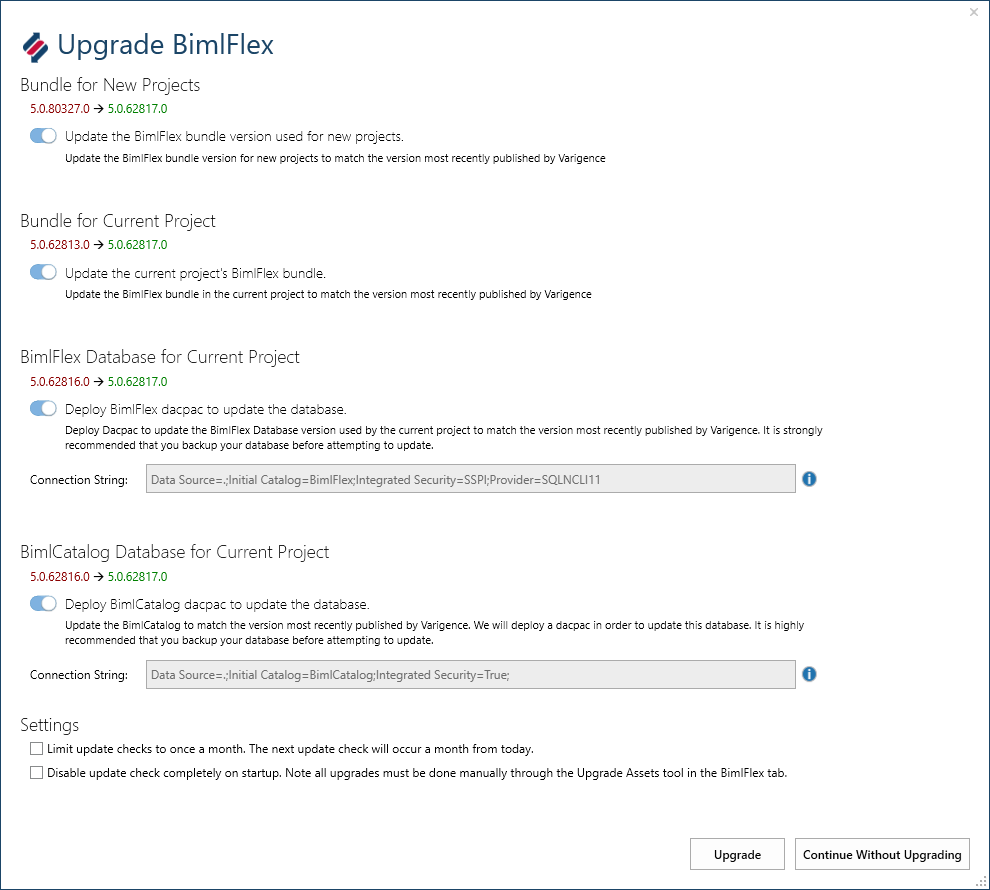
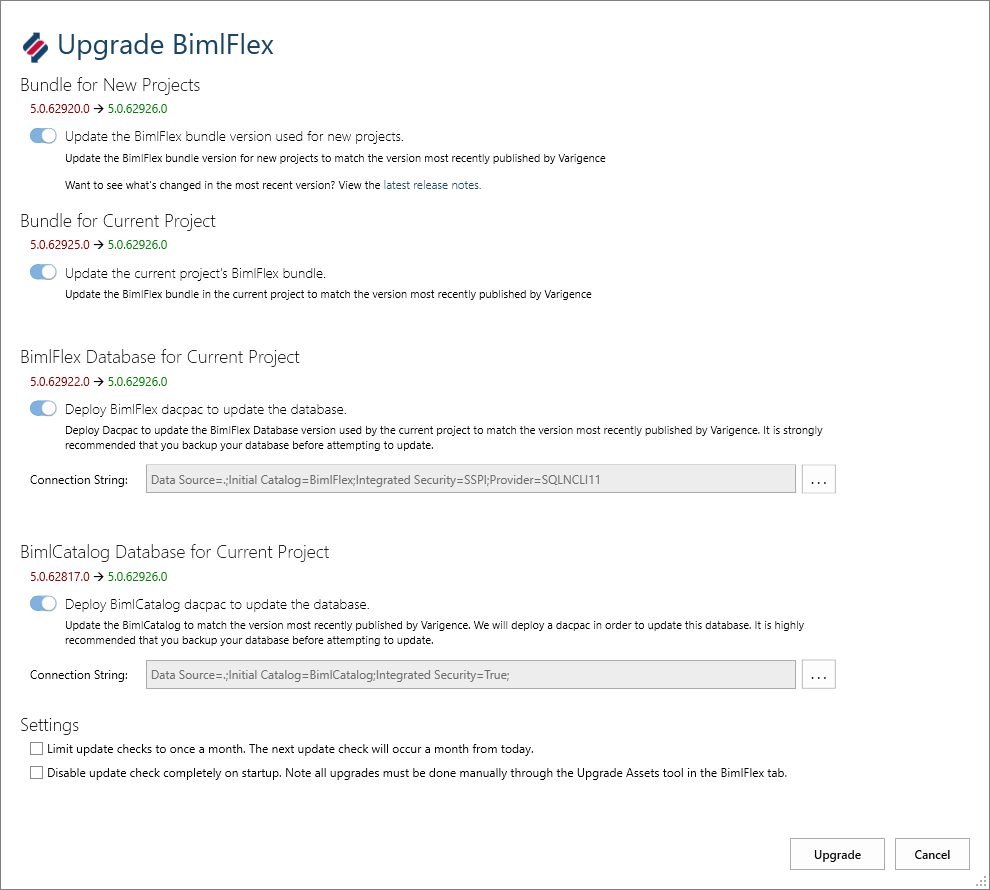
update BimlFlex upgrade process docs

diff --git a/bimlflex/user-guide/upgrade-and-testing-process.md b/bimlflex/user-guide/upgrade-and-testing-process.md
@@ -1,95 +1,80 @@
+---
+uid: bimlflex-upgrade-and-testing
+title: Upgrade and Testing Process
+---
 # Upgrade and Testing Process
 
-BimlFlex is built on BimlStudio and contains the following components that are of interest when upgrading a component to a later version:
+BimlFlex is built on BimlStudio and contains the following components that are of interest when upgrading to a later version:
 
 * BimlStudio Application
 * BimlFlex component of BimlStudio
 * BimlFlex Excel Add-in
-* BimlFlex bundle file
+* BimlFlex Bundle file
 * BimlFlex Metadata database
 * BimlCatalog Orchestration database
 * BimlFlex Custom SSIS Components
 
-The BimlStudio application is distributed as a single, separate installer; the BimlFlex components are combined in a single separate installer. Some components are provided optimized for server deployment. Upgrades to databases and Bundles are distributed through the [Support Utility Application](support-utility-application.md).
+* The BimlStudio application is distributed as a single, separate installer
+* The BimlFlex Excel Add-in is distributed as a single, separate installer
+* The BimlFlex databases are embedded in the Bundle used by BimlStudio and can be deployed and updated from within BimlStudio
+* The BimlFlex Custom SSIS Components are distributes as an archive file that contains the component dll and a .bat file installer
 
 ## Upgrading BimlStudio and BimlFlex from the Varigence website
 
-The current version of [BimlStudio is availble for download here](https://varigence.com/downloads/bimlstudiosetup.exe).
+The current version of [BimlStudio is available for download here](https://varigence.com/downloads/bimlstudiosetup.exe).
 
-Other components are available on request from the BimlFlex Enterprise support team at [bimlflex-support@varigence.com](mailto:bimlflex-support@varigence.com).
+Other components are available on request from the BimlFlex Enterprise support team at [bimlflex-support@varigence.com](mailto:bimlflex-support@varigence.com). The download locations are also detailed in the licensing email.
 
 ## Preparation for upgrading an existing project
 
-A current project with existing Extension Point script files and existing metadata needs planning and consideration before upgrading.
+Current projects with existing Extension Point script files and existing metadata needs planning and consideration before upgrading.
 
-A new version of BimlFlex and its components can include fixes for any issues identified as well as new functionality. This is detailed in the @bimlflex-release-notes that accompany the new version.
+A new version of BimlFlex and its components can include both fixes and new functionality. This is detailed in the @bimlflex-release-notes that accompany the new version.
 
-### 1. Do a database backup
+### 1. Do database backups
 
-Do a backup of the existing metadata database so that it is available in case a rollback is wanted.
+Do backups of the existing metadata and catalog databases so that they can be rolled back if needed
 
-### 2. Create a metadata dump
+### 2. Build expanded code files
 
-Create a metadata dump using the BimlFlex utility in case there is a need to send it to the BimlFlex support team. [More information on how to use the BimlFlex Support Utility Application](support-utility-application.md)
+To verify that the upgrade implements new functionality as expected and that no unforeseen effects are affecting the new version, build expanded code files for Biml and SQL for all projects.
 
-### 3. create an export of the Biml contents of the project
+The expanded code is automatically enabled in the Bundle Options for a new project. The `Build Flat Biml File` and `Build DDL Script File` options control the creation. By creating the 2 files for each project before and after upgrading it is easy to validate all changes.
 
-This can be achieved by manually creating a new Biml File in the project and adding the following code to the document.
-
-![Create New Biml File](images/bimlflex-ss-v5-create-new-biml-file.png "Create New Biml File")
-
-The new Biml File will be added and opened in BimlStudio.
-
-Code to add:
-
-```biml
-<#=RootNode.GetBiml()#>
-```
-
-Adding the code and saving the file will automatically execute and provide the project Biml in the preview window.
-
-![GetBiml Expanded Result](images/bimlflex-ss-v5-get-biml-result.png "GetBiml Expanded Result")
-
-This generated Biml is a text representation of the entire project. This can be used to compare the result of different versions and Bundles so that fixes, new logic, and new functionality can be reviewed through a single text file.
-
-It is possible to use a file comparison tool to compare the before and after version of the generated Biml to identify any changes.
-
-### 4. Backup project files
+### 3. Backup project files
 
 The BimlStudio project and the Custom Extension Point files and any other local file contents that have been created should be backed up to a backup location so that a copy of the pre-upgrade project is available if needed.
 
-### 5. Deploy updates to databases
+### 4. Upgrade Bundle and Databases through BimlStudio
 
-The BimlFlex and BimlCatalog database definitions might have been updated. Review the release notes to see if there has been an update from the current in-use version. The update is provided either as a Dacpac file with a similar pre-upgrade SQL script or embedded in the BimlFlex Support Utility Application. Depending on the environment and preferences either approach can be used to upgrade the databases.
+BimlStudio checks for updates to BimlFlex when opening a project. The Upgrade BimlFlex dialog is shown when a new version is available.
 
-### 6. Deploy the new BimlBundle version
+![Upgrade BimlFlex](images/bimlflex-ss-v5-bimlflex-upgrade-assets-dialog.png)
 
-The BimlBundle file that contains the BimlFlex logic might have been updated. Review the release notes to see if there has been an update from the current in-use version. The update is provided either as a separate bundle file or embedded in the BimlFlex Support Utility Application. Depending on the environment and preferences either approach can be used to upgrade the projects and installation locations.
+If there is a new version available online,BimlFlex will allow the new version to be downloaded and applied to both the project template location, the current project and the current databases. For new versions there is also a link to the release notes. These should be reviewed before starting an upgrade.
 
-The bundle file is located in each installation folder for the BimlStudio and BimlFlex installations on the local computer where it has been installed. These files are used when creating a new project.
+* Update the template Bundle file.
+    BimlFlex uses a template file for creating new projects. BimlStudio can connect to and download the updated Bundle from the online location and make it available for new projects and as an upgrade source for other existing projects.
 
-Each existing project has a local bundle file that needs to be updated if the new version should be used in that project. The bundle file needs to be copied both to the installation folders as well as to the project that is being upgraded for a complete upgrade.
+* Update the current project's Bundle.
+    For a project with an older Bundle compared to either the online or the template Bundle. BimlStudio will update the project Bundle to the later version.
 
-Once these steps are completed the upgrade is complete and testing and reviewing the upgraded project starts.
+* Upgrade the current project's BimlFlex database.
+    When opening a project BimlStudio will offer to upgrade that project's specific BimlFlex database. Use the Upgrade Assets dialog in the BimlFlex Ribbon tab to upgrade other database locations.
+
+* Upgrade the current project's BimlCatalog database.
+    When opening a project BimlStudio will offer to upgrade that project's specific BimlCatalog database. Use the Upgrade Assets dialog in the BimlFlex Ribbon tab to upgrade other database locations.
 
 ### Reviewing the upgraded versions
 
 Once the databases and Bundle file have been updated it is time to open the project in BimlStudio. Once the project has opened and downloaded, metadata applied, the BimlFlex solution is ready for testing.
 
 1. review any errors or warnings
-
     There might have been updates to the logic applied by the Bundle. Review any error or warning messages in BimlStudio and review the release notes to see if any metadata or Extension Point behavior has changed.
-
-1. recreate the Biml
-
-    Rerun the `<#=RootNode.GetBiml()#>` command created earlier and save the new Biml code to a separate file.
-
-    Compare the file contents using a favorite merge or compare tool and validate that any change in the output corresponds to an expected change driven by either a fix or a new functionality in the new Bundle. If the generated Biml is not meeting requirements, review the release notes to see if there is a documented reason for the new behavior.
-
+1. recreate the Biml and SQL Scripts
+    Rebuild all projects and compare the ExpandedCode files to their previous versions using a merge/file compare tool.
 1. test build and run
-
     Test the build once the new project is verified as generating Biml with expected functionality.
-
     Run the new builds and validate both logs and data to verify behavior in the development and test environments before upgrading production runs.
 
 ### Resolving issues
